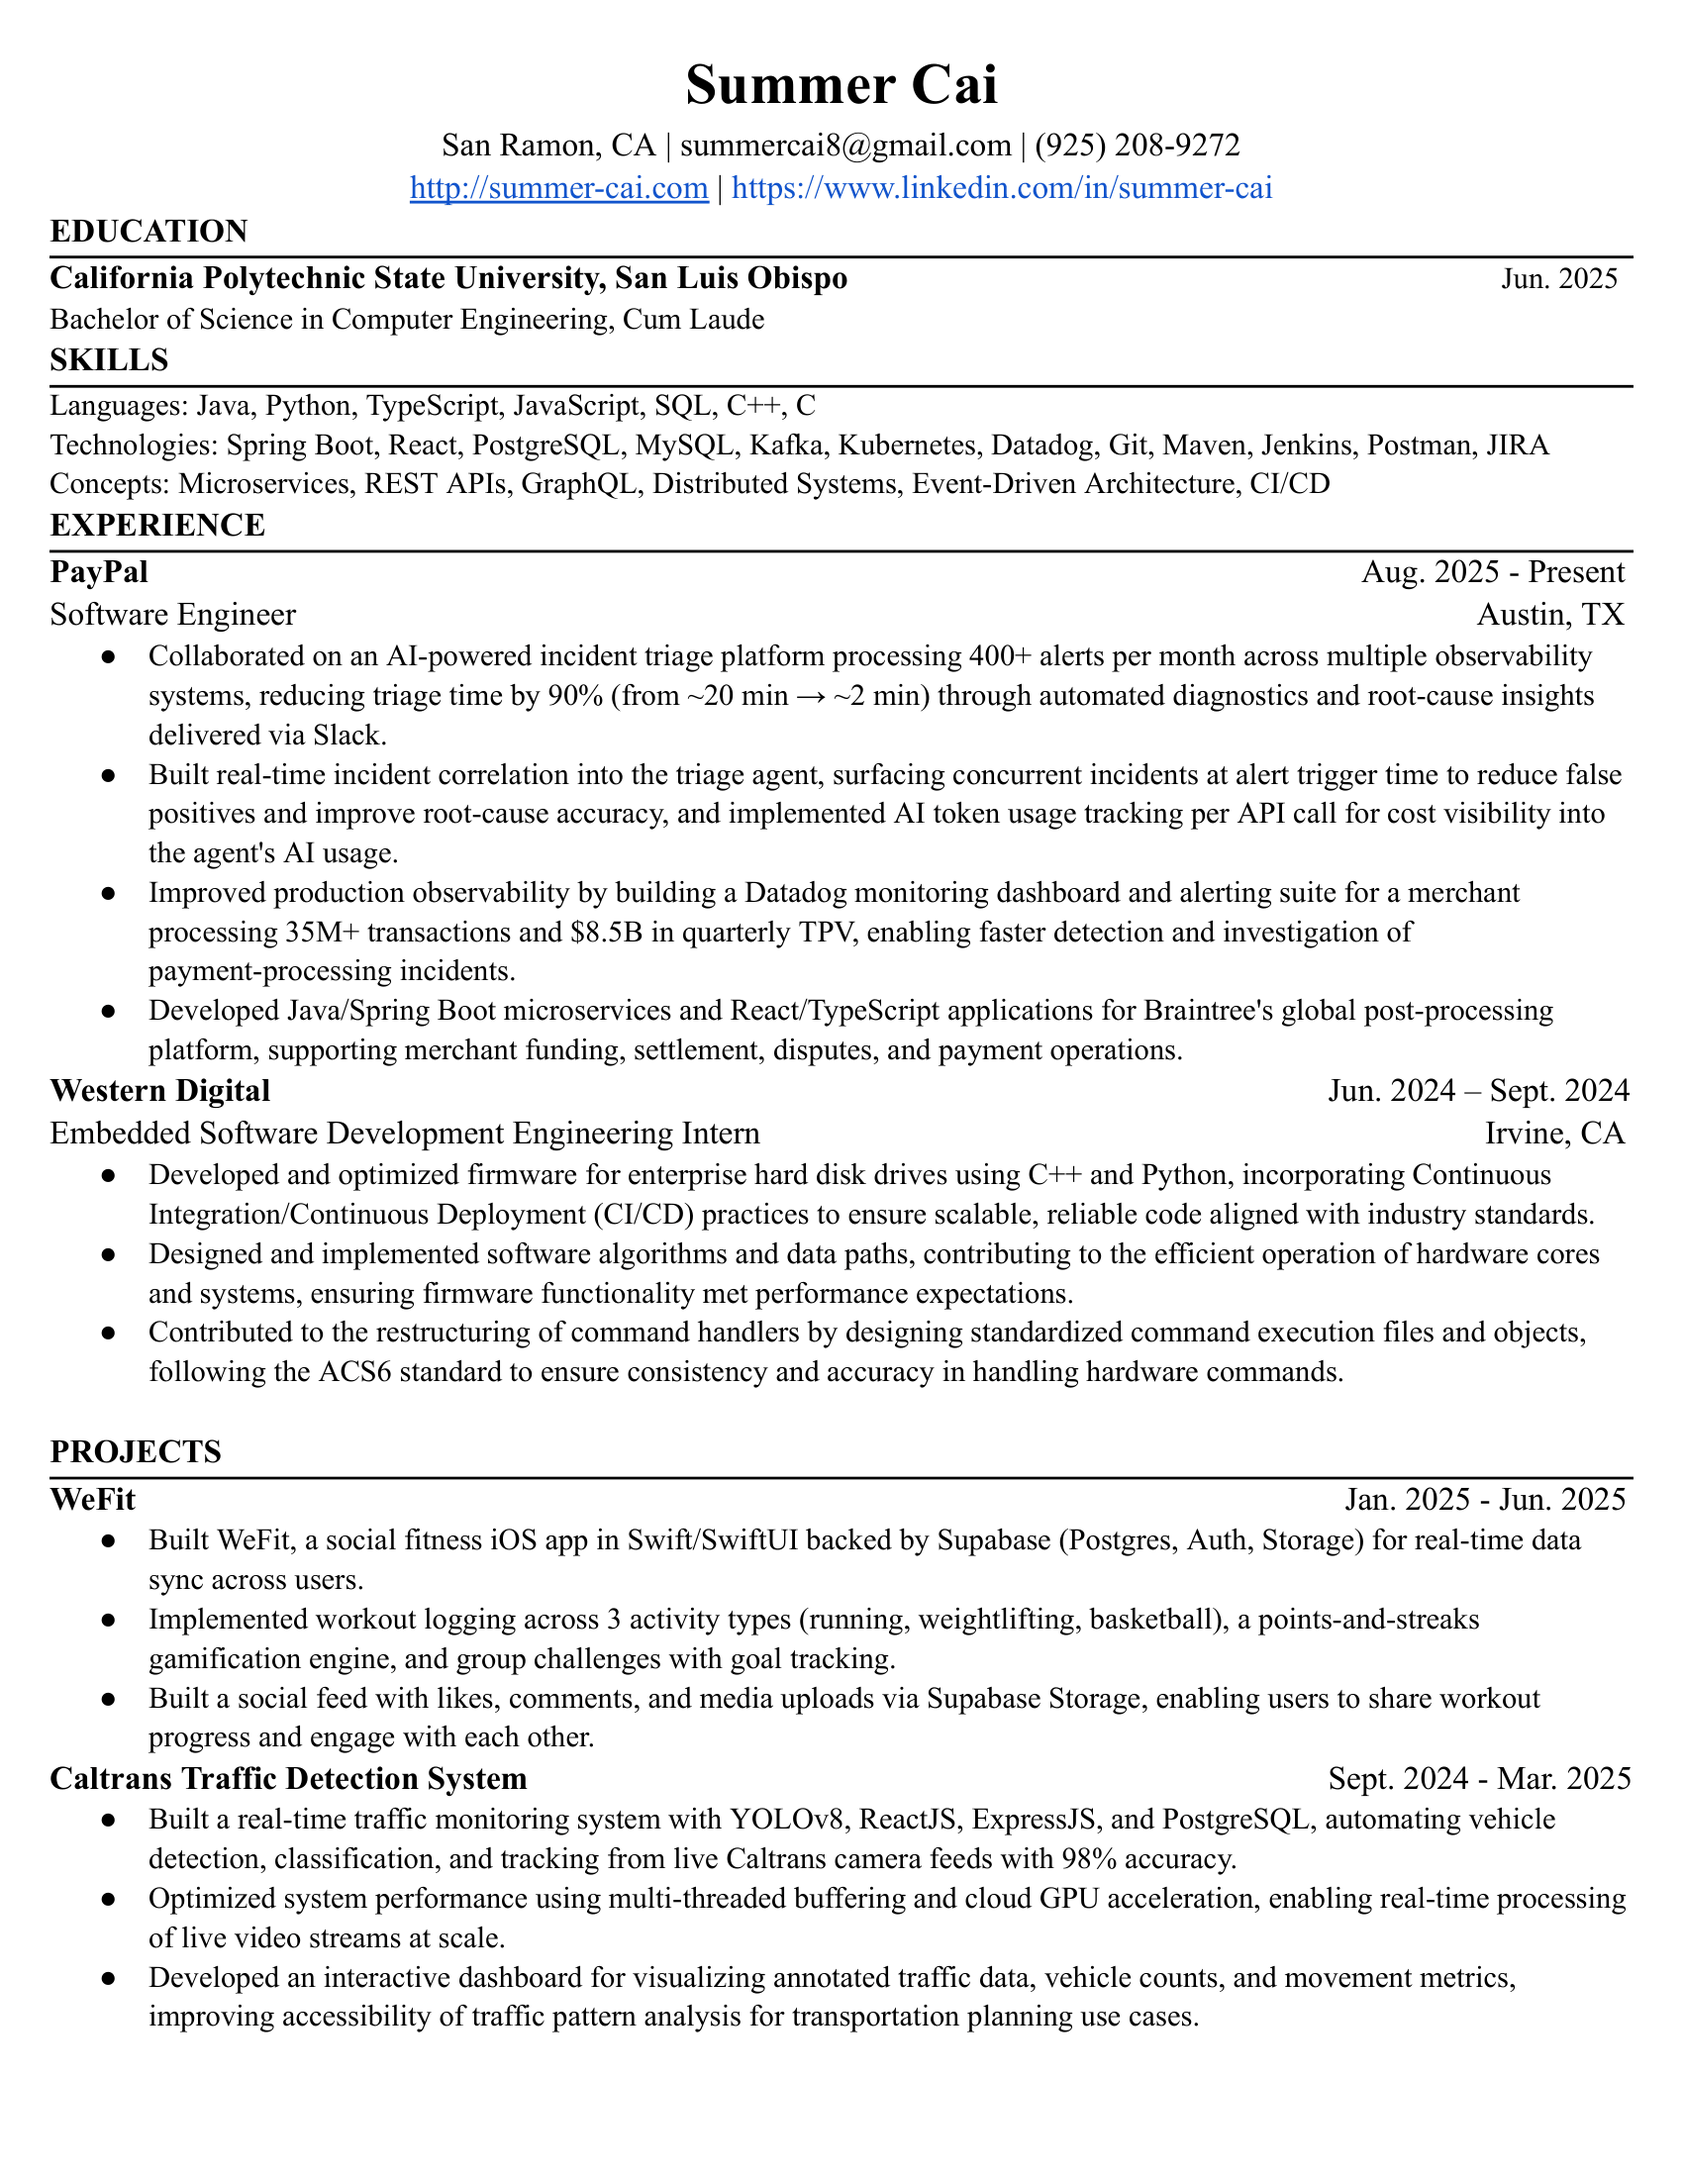
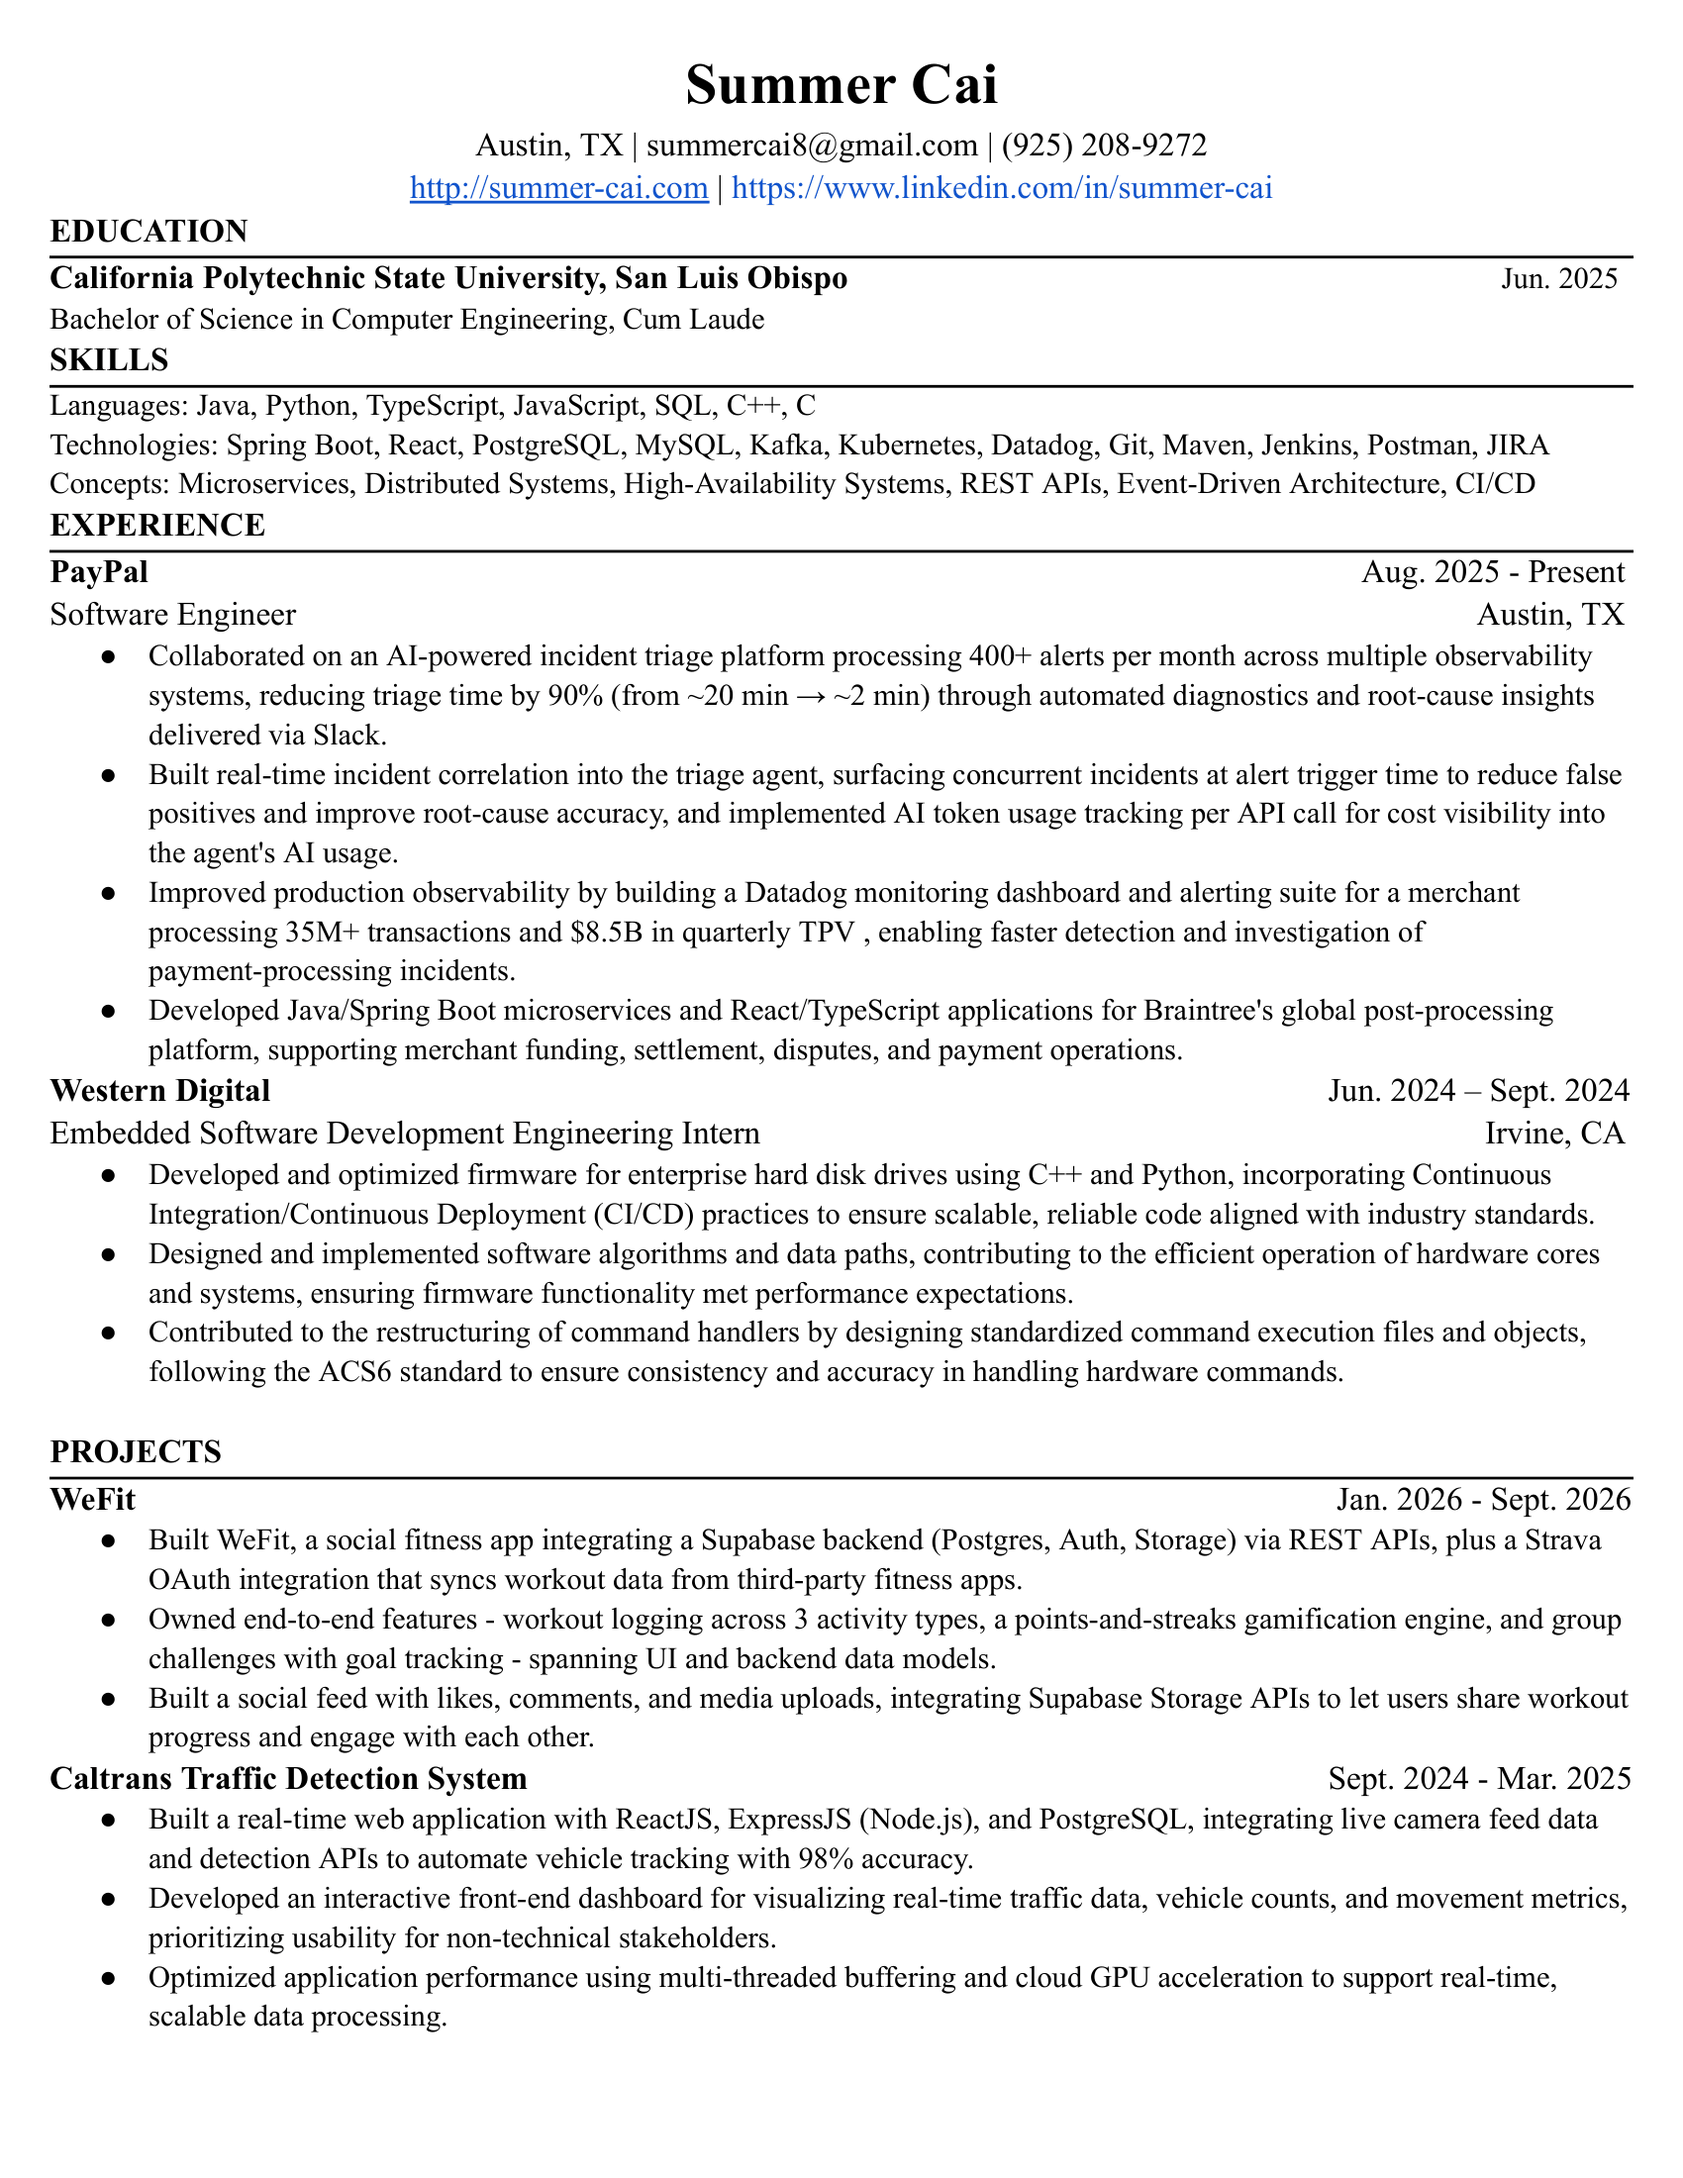
Updated resume

diff --git a/src/components/Projects.js b/src/components/Projects.js
@@ -3,6 +3,7 @@ import React from 'react';
 import './styles/projects.css';
 import wefitHome from '../photos/wefit/home.jpg';
 import wefitFeed1 from '../photos/wefit/feed1.jpg';
+import wefitFeed4 from '../photos/wefit/feed4.jpg';
 import wefitChallenges from '../photos/wefit/challenges.jpg';
 
 function Projects() {
@@ -14,15 +15,26 @@ function Projects() {
         <div className="project-text">
           <h3>WeFit</h3>
           <p>
-            Built with a team of 2, WeFit is a social fitness app used by 10+ active users: log workouts across
+            Built with a team of 2, WeFit is a social fitness app: log workouts across
             3 activity types (running, weightlifting, and basketball), earn points and streaks, join group
             challenges with friends, and share progress in a social feed with likes and comments — all backed by
-            Supabase (Auth, Postgres, and Storage for photo/video posts) in a native Swift/SwiftUI app.
+            Supabase (Auth, Postgres, and Storage for photo/video posts) in a native Swift/SwiftUI app. Also
+            integrates Strava via OAuth to auto-import runs, and parses weight-training sessions logged through
+            Hevy (which syncs to Strava) into full exercise/set/rep/weight detail.
           </p>
+          <a
+            href="https://github.com/summercaii/WeFit"
+            target="_blank"
+            rel="noopener noreferrer"
+            className="project-link"
+          >
+            Github Link
+          </a>
         </div>
         <div className="project-gallery">
           <img src={wefitHome} alt="WeFit home screen with stats and recent activities" />
           <img src={wefitFeed1} alt="WeFit social feed with a workout video post" />
+          <img src={wefitFeed4} alt="WeFit social feed post" />
           <img src={wefitChallenges} alt="WeFit group challenges screen" />
         </div>
       </div>

diff --git a/src/components/styles/projects.css b/src/components/styles/projects.css
@@ -77,6 +77,19 @@
     background-color: #d81b60;
     transform: scale(1.05);
   }
+
+  /* ===== Lightweight text link (e.g. "Github Link") ===== */
+  .project-link {
+    display: inline-block;
+    margin-top: 8px;
+    font-size: 0.9rem;
+    font-weight: 600;
+    color: #f48fb1;
+  }
+  .project-link:hover {
+    color: #d81b60;
+    text-decoration: underline;
+  }
   
   @media (max-width: 768px) {
     .project { flex-direction: column; text-align: center; }
@@ -118,14 +131,15 @@
   }
 
   .project-gallery img {
-    width: 260px;
-    max-width: 45%;
+    width: 200px;
+    max-width: 22%;
     border-radius: 12px;
     box-shadow: 0 4px 10px rgba(0, 0, 0, 0.12);
   }
 
   @media (max-width: 600px) {
     .project-gallery img {
-      width: 80%;
+      width: 45%;
+      max-width: 45%;
     }
   }

diff --git a/README.md b/README.md
@@ -1,1 +1,39 @@
-hellooo
+# sumzfolio
+
+My personal portfolio site — [summer-cai.com](https://summer-cai.com).
+
+## Sections
+
+- **About** — who I am, currently a Software Engineer at PayPal
+- **Projects** — WeFit (social fitness app) and a Caltrans computer-vision
+  traffic detection system
+- **Resume** — downloadable PDF
+- **Coffee Shops** — a ranked, region-tabbed list of favorite coffee spots
+  (Bay Area, Austin, Japan)
+- **Restaurant Recs** — same format, for restaurants (Bay Area, Austin,
+  Japan, New York)
+- **Contact**
+
+## Tech stack
+
+- **React** (Create React App) + **react-router-dom**
+- Deployed on **Netlify**, auto-building from `main`
+
+## Running locally
+
+```
+npm install
+npm start
+```
+
+Opens at `http://localhost:3000`.
+
+## Deployment
+
+Netlify builds automatically on push to `main` (`npm ci && npm run build`,
+see `netlify.toml`). `.python-version` and `PYTHON_VERSION` in
+`netlify.toml` pin the Python version Netlify's build image uses — a Python
+backend also lives in this repo (`backend/`, deployed separately to Heroku
+via the `Procfile`), and Netlify's build image auto-detects and tries to
+install its `requirements.txt` even though the frontend build doesn't need
+it, so the version needs pinning to avoid unrelated Python build failures.
